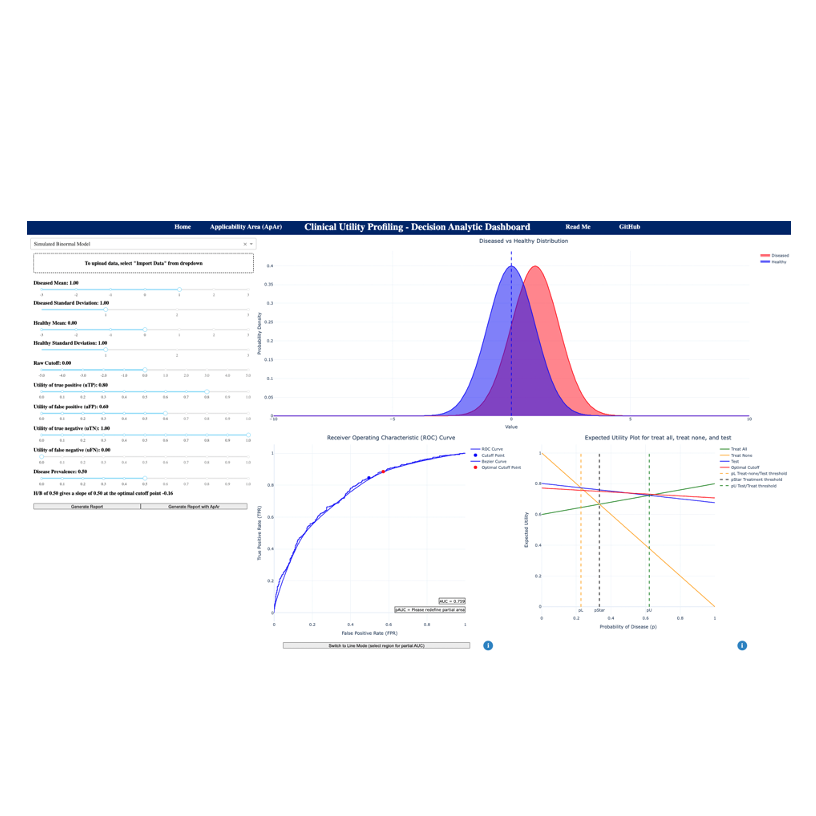
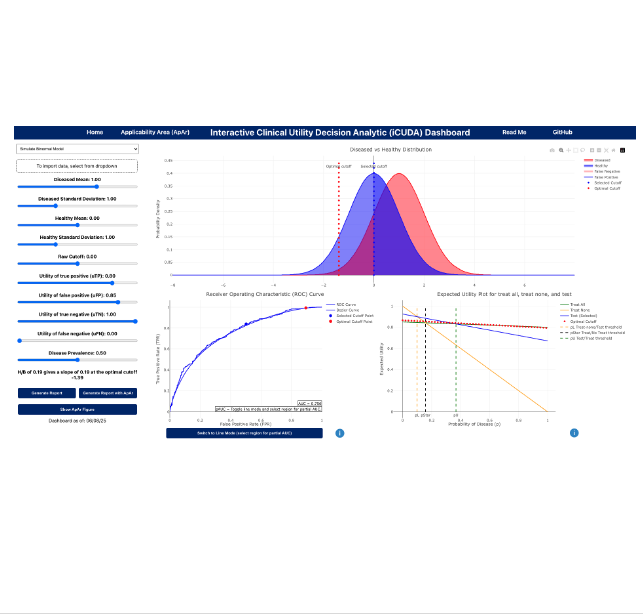
updated dashboard links

diff --git a/build/index.html b/build/index.html
@@ -1,1 +1,1 @@
-<!doctype html><html lang="en"><head><meta charset="utf-8"/><link rel="icon" href="/logo.png"/><meta name="viewport" content="width=device-width,initial-scale=1"/><meta name="theme-color" content="#000000"/><meta name="description" content="Web site created using create-react-app"/><link rel="manifest" href="/manifest.json"/><title>Star | Portfolio</title><meta name="description" content="Self Developed personal website build with React.js"><meta itemprop="name" content="Star | Portfolio"><meta itemprop="description" content="Self Developed personal website build with React.js"><meta itemprop="image" content="https://user-images.githubusercontent.com/20383021/147687842-6fee5f6a-9139-4acc-bd02-74545ac95758.jpg"><script defer="defer" src="/static/js/main.1c002692.js"></script><link href="/static/css/main.2511219a.css" rel="stylesheet"></head><body><noscript>You need to enable JavaScript to run this app.</noscript><div id="root"></div></body></html>
+<!doctype html><html lang="en"><head><meta charset="utf-8"/><link rel="icon" href="/logo.png"/><meta name="viewport" content="width=device-width,initial-scale=1"/><meta name="theme-color" content="#000000"/><meta name="description" content="Web site created using create-react-app"/><link rel="manifest" href="/manifest.json"/><title>Star | Portfolio</title><meta name="description" content="Self Developed personal website build with React.js"><meta itemprop="name" content="Star | Portfolio"><meta itemprop="description" content="Self Developed personal website build with React.js"><meta itemprop="image" content="https://user-images.githubusercontent.com/20383021/147687842-6fee5f6a-9139-4acc-bd02-74545ac95758.jpg"><script defer="defer" src="/static/js/main.c0176351.js"></script><link href="/static/css/main.2511219a.css" rel="stylesheet"></head><body><noscript>You need to enable JavaScript to run this app.</noscript><div id="root"></div></body></html>

diff --git a/src/ProjectModules.js b/src/ProjectModules.js
@@ -83,8 +83,8 @@ export const PROJECTS = [
   },
   {
     image: CUP_dashboard,
-    name: "CUP - Decision Analytic Dashboard",
-    technologyUsed: "Python",
+    name: "interactive Clinical Utility Decision Analytic (iCUDA) Dashboard",
+    technologyUsed: "Python, JavaScript, Azure",
     // eslint-disable-next-line no-multi-str
     description: "Driven by decision analysis and utility theory, we built an intuitive and \
                   interactive dashboard for visualizing and analyzing the utility of machine \
@@ -96,8 +96,9 @@ export const PROJECTS = [
                   The home dashboard also comes with ability to generate a structured PDF report.\
                   ",
     date: "Ongoing work and official URL will be posted to GitHub",
-    url: "https://github.com/StarLiu1/da-dashapp",
-    linkType: ["Clone Repo to Use"]
+    url: "https://github.com/StarLiu1/icuda",
+    url2: "https://icuda-cah8f2cfgzcba8fn.eastus2-01.azurewebsites.net/",
+    linkType: ["GitHub Repo","Temporary Link"]
   },
   {
     image: CUP_DecisionAnalysis,
